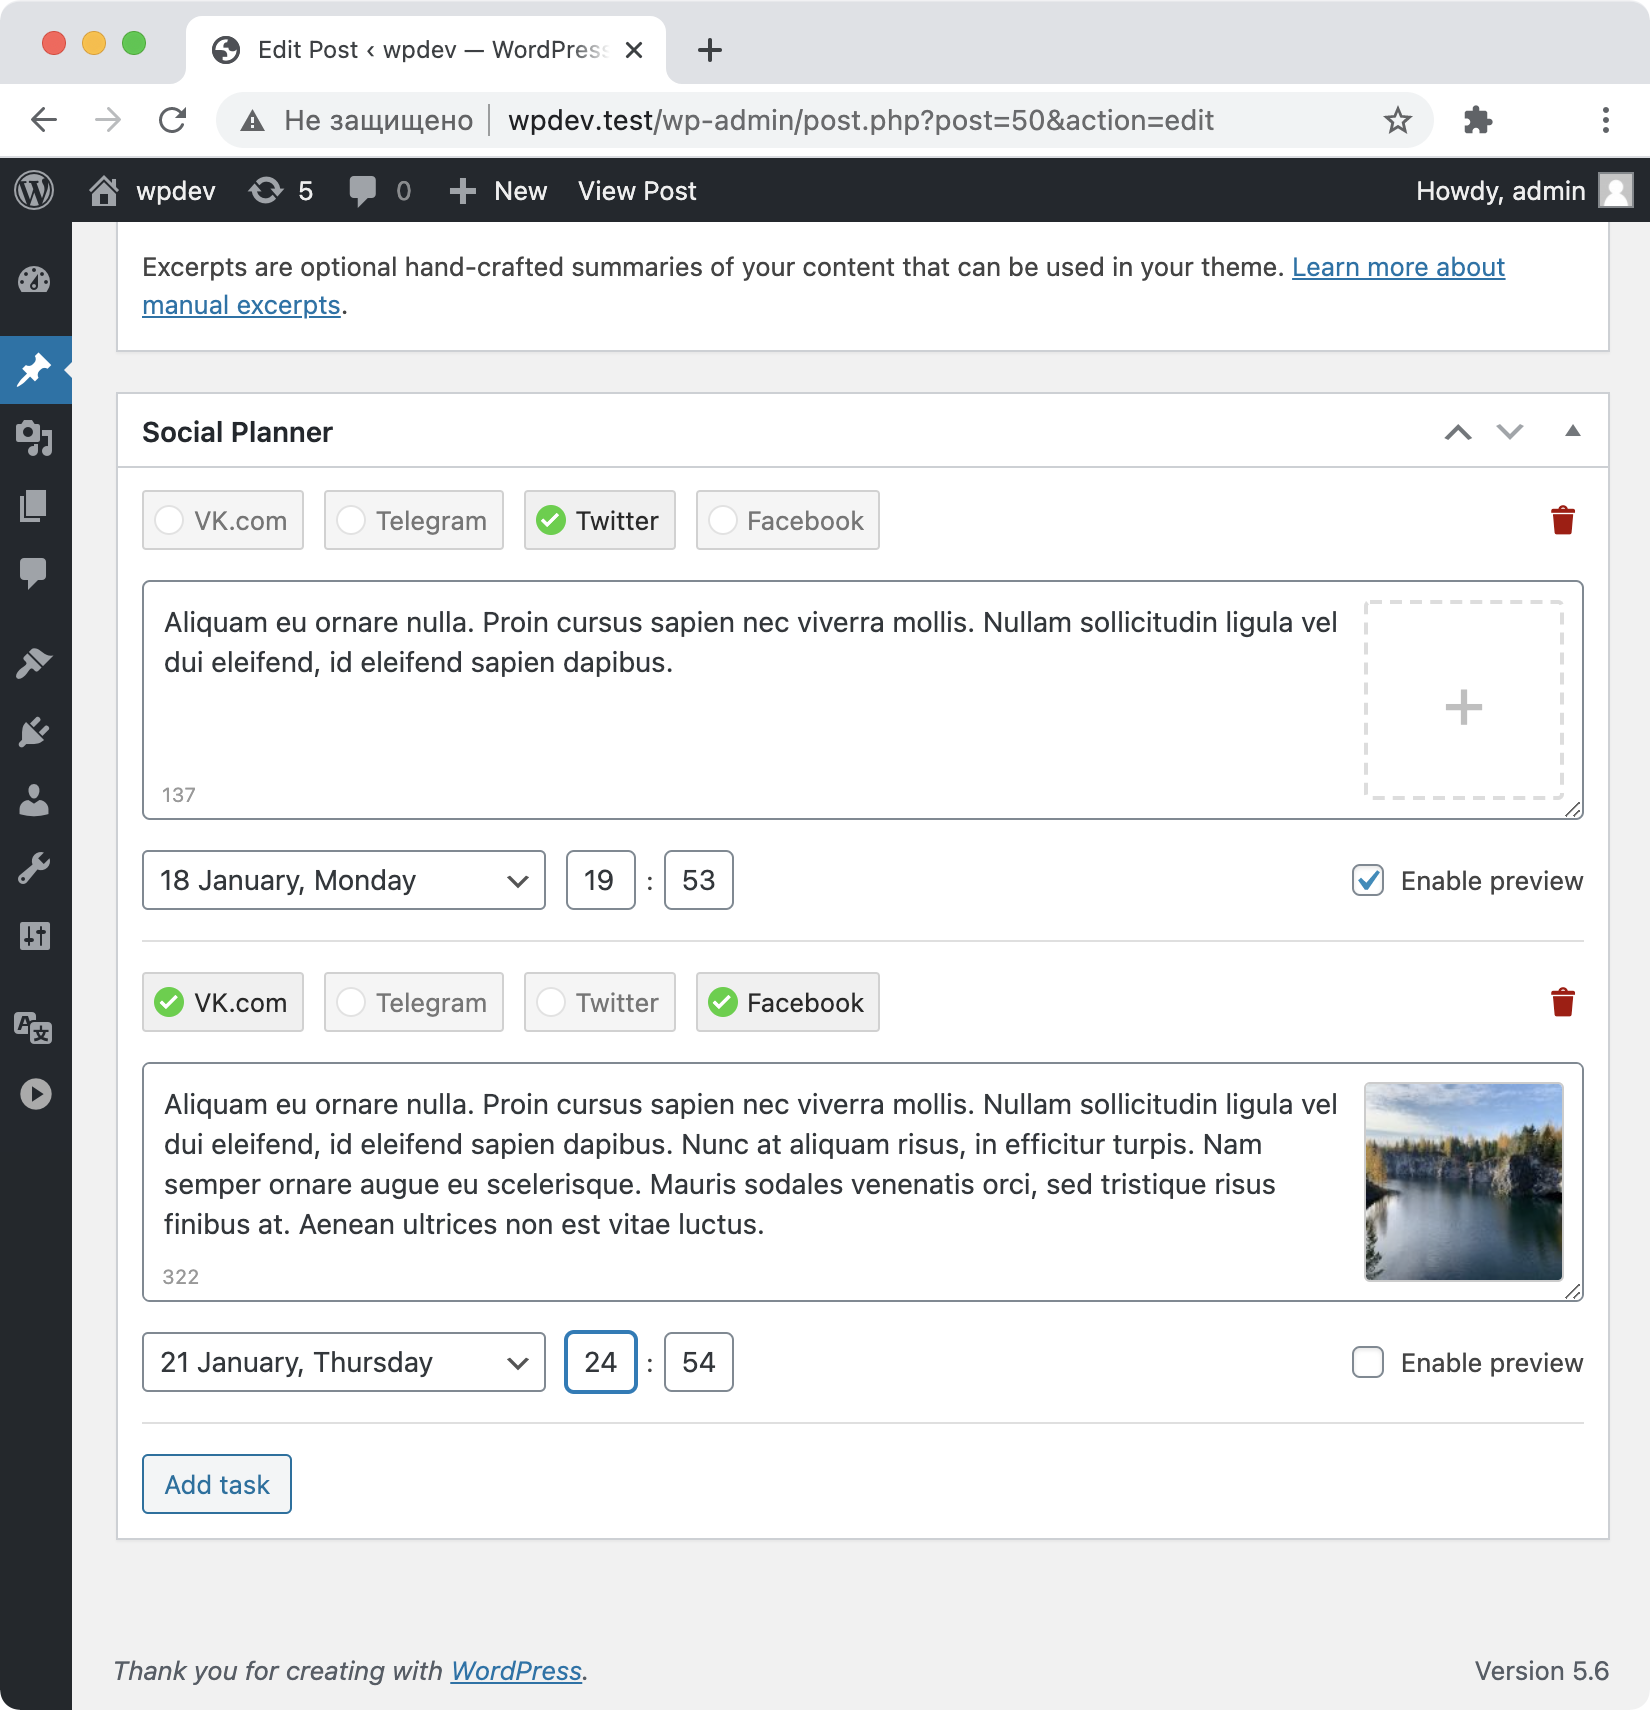
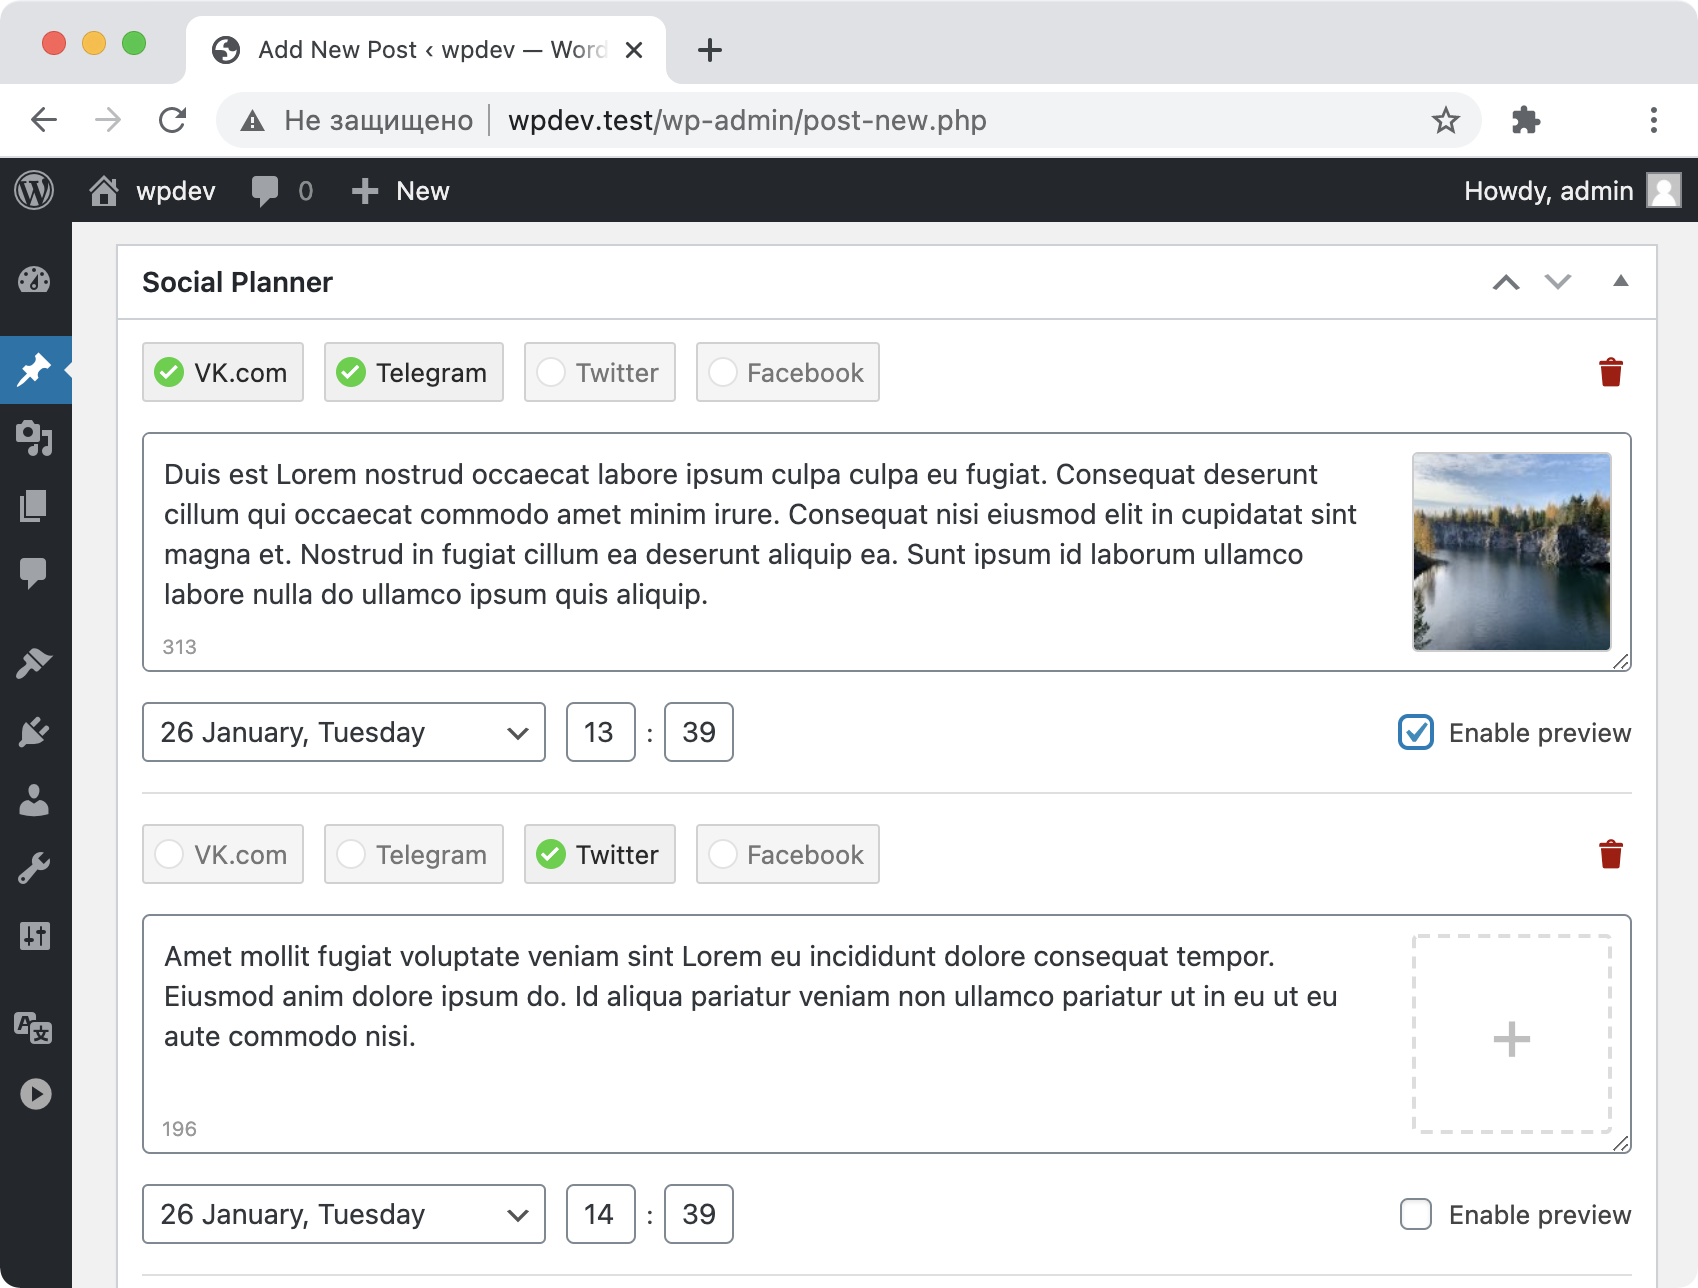
fix language text domain and replace screenshots

diff --git a/gulpfile.js b/gulpfile.js
@@ -88,7 +88,7 @@ gulp.task( 'watch', () => {
 /**
  * Build static files
  */
-gulp.task( 'build', gulp.series( 'styles', 'scripts' ) );
+gulp.task( 'build', gulp.series( 'styles', 'scripts', 'readme' ) );
 
 /**
  * Build static files and watch changes by default.

diff --git a/networks/class-network-vk.php b/networks/class-network-vk.php
@@ -207,13 +207,13 @@ class Network_VK {
 		$response = json_decode( $response['body'], false );
 
 		if ( empty( $response->response[0] ) ) {
-			return new WP_Error( 'sending', esc_html__( 'An error occurred while saving image', 'knife-theme' ) );
+			return new WP_Error( 'sending', esc_html__( 'An error occurred while saving image', 'social-planner' ) );
 		}
 
 		$response = $response->response[0];
 
 		if ( empty( $response->owner_id ) || empty( $response->id ) ) {
-			return new WP_Error( 'sending', esc_html__( 'An error occurred while saving image', 'knife-theme' ) );
+			return new WP_Error( 'sending', esc_html__( 'An error occurred while saving image', 'social-planner' ) );
 		}
 
 		return $response->owner_id . '_' . $response->id;

diff --git a/networks/class-network-twitter.php b/networks/class-network-twitter.php
@@ -225,7 +225,7 @@ class Network_Twitter {
 		$response = json_decode( $response['body'], false );
 
 		if ( empty( $response->media_id_string ) ) {
-			return new WP_Error( 'sending', esc_html__( 'An error occurred while uploading image', 'knife-theme' ) );
+			return new WP_Error( 'sending', esc_html__( 'An error occurred while uploading image', 'social-planner' ) );
 		}
 
 		return $response->media_id_string;
@@ -267,7 +267,7 @@ class Network_Twitter {
 		$content = file_get_contents( $path );
 
 		if ( false === $content ) {
-			return new WP_Error( 'sending', esc_html__( 'Cannot read poster file' ) );
+			return new WP_Error( 'sending', esc_html__( 'Cannot read poster file', 'social-planner' ) );
 		}
 
 		$body[] = "--$boundary";

diff --git a/social-planner.php b/social-planner.php
@@ -7,7 +7,7 @@
  * Author URI: https://lukin.me
  * Requires at least: 5.3
  * Tested up to: 5.6
- * Version: 1.1.2
+ * Version: 1.1.3
  *
  * Text Domain: social-planner
  * Domain Path: /languages/
@@ -28,7 +28,7 @@ if ( ! defined( 'ABSPATH' ) ) {
 /**
  * Plugin version.
  */
-define( 'SOCIAL_PLANNER_VERSION', '1.1.2' );
+define( 'SOCIAL_PLANNER_VERSION', '1.1.3' );
 
 /**
  * Plugin admin menu slug.

diff --git a/README.md b/README.md
@@ -45,6 +45,9 @@ If you find a bug or want to add new feature to this plugin, create new [issue](
 
 ## Changelog ##
 
+### 1.1.3 ###
+* Fix language text domain and replace screenshots
+
 ### 1.1.2 ###
 * Update plugin docs
 
